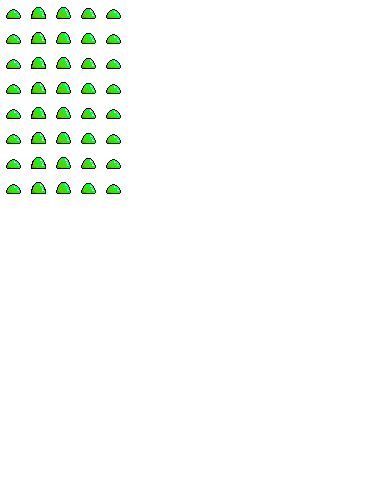
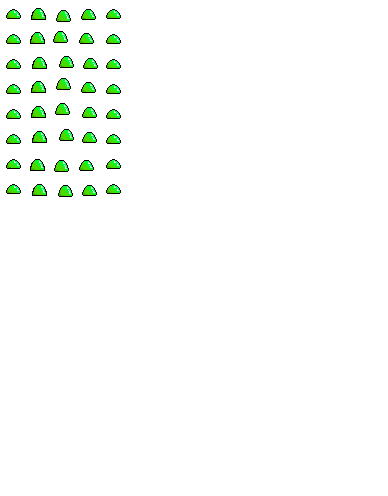
animation

Changed region(s): [[0.0619, 0.0, 0.2474, 0.4234]]

diff --git a/src/utilities/camera/Camera.java b/src/utilities/camera/Camera.java
@@ -49,7 +49,7 @@ public class Camera
             }
             else if (gc.keyHandler.scrollCount < 0)
             {
-                scaleFactor = Math.min(2, scaleFactor + 0.05);  // closer
+                scaleFactor = Math.min(4, scaleFactor + 0.15);  // closer
             }
             gc.keyHandler.scrollCount = 0;
         }

diff --git a/src/main/entity/EntityUpdater.java b/src/main/entity/EntityUpdater.java
@@ -9,7 +9,7 @@ public class EntityUpdater implements Updatable
 {
     private Entity entity;
     private int spriteCounter = 0;
-    private int animationSpeed = 8;
+    private int animationSpeed = 20;
 
     public Entity getEntity() {return entity;}
 

diff --git a/src/main/entity/player/PlayerRenderer.java b/src/main/entity/player/PlayerRenderer.java
@@ -27,7 +27,7 @@ public class PlayerRenderer extends EntityRenderer implements Drawable
     public void draw(Graphics g2)
     {
         super.draw(g2);
-        drawEntityHitbox(g2);
+        //drawEntityHitbox(g2);
         //g2.dispose();
     }
 }
